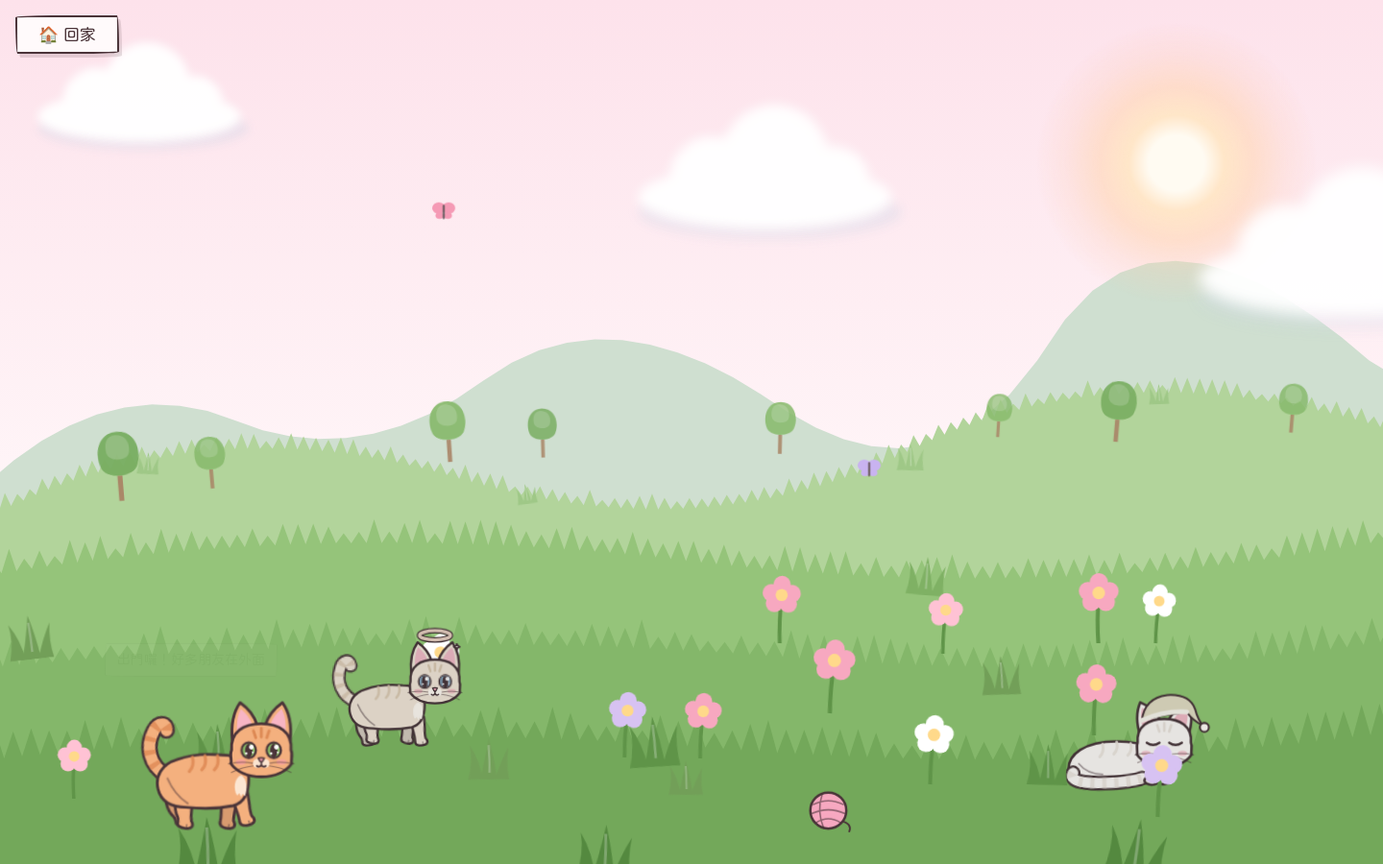
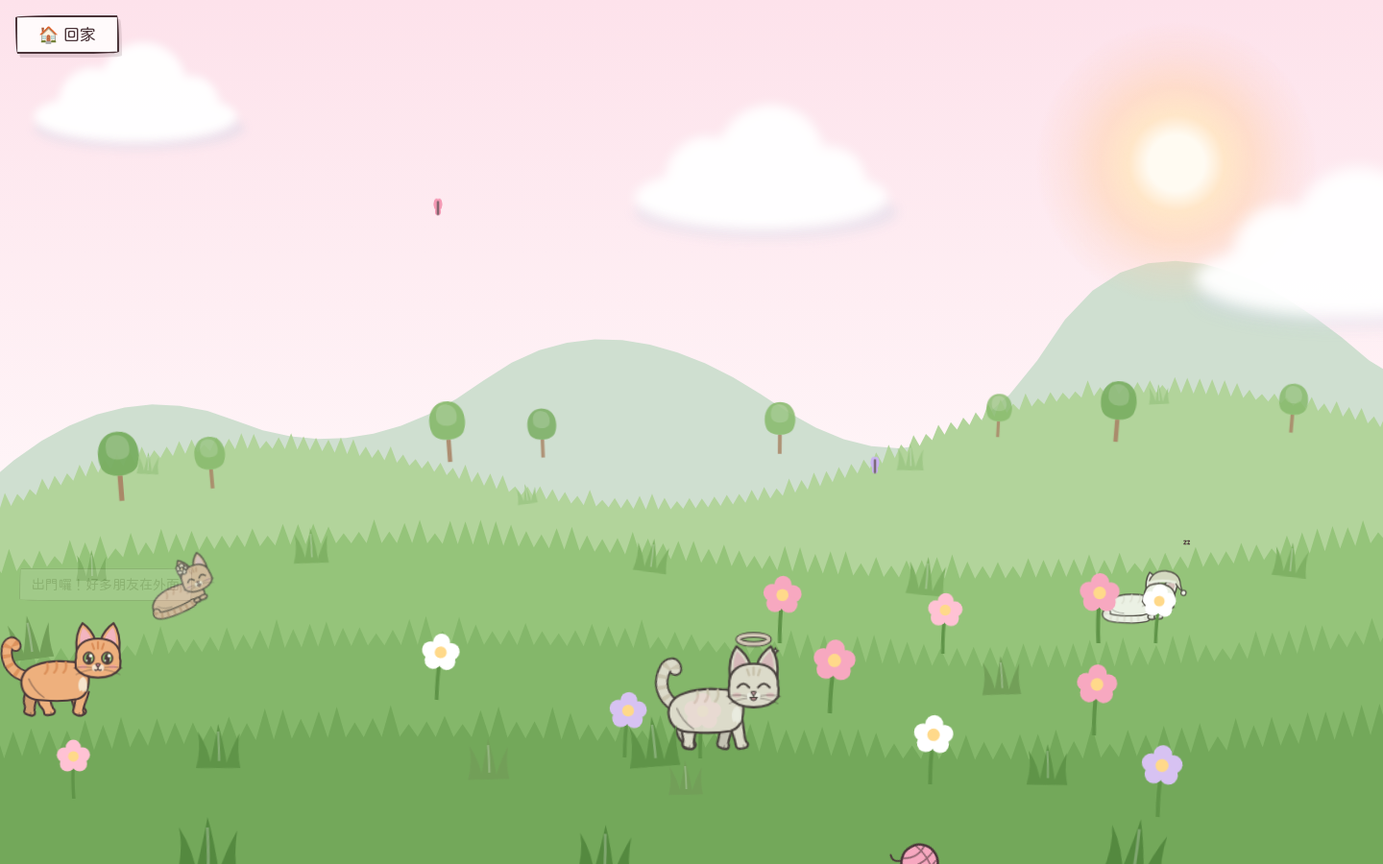
style: add color for cat

diff --git a/index.html b/index.html
@@ -1099,6 +1099,32 @@ const MOODS = {
              acts: { walk: 4, sit: 1, groom: 1 }, speed: 80 },
 };
 const CALICO_DARK = "#5A5560", CALICO_ORANGE = "#E9A06A";
+// ---------- 花色：14 種，按情緒家族決定 ----------
+// fur 底色、stripe 虎斑紋（跟 fur 一樣就是沒有斑紋）、chest 胸口和嘴邊、eye 眼睛
+// patches：兩塊斑（三花、玳瑁、橘白）、earR：右耳的顏色、point：暹羅的重點色（耳朵、臉、腳、尾巴）
+// muzzle：白色嘴套、paw：腳的顏色、whisker／eyeLine：深色毛的貓用淺色鬍鬚和眼線
+const COATS = {
+  happy:      { name: "橘子", fur: "#F4B07E", stripe: "#DE8A55", chest: "#FCE6D2", eye: "#8CC46B" },
+  goldie:     { name: "金金", fur: "#F3D9A4", stripe: "#E8C482", chest: "#FFF7E6", eye: "#6FBF8E" },
+  siamese:    { name: "可可", fur: "#F4EADC", stripe: "#F4EADC", chest: "#FFF9F0", eye: "#7FB8E8", point: "#86685A" },
+  anxious:    { name: "花花", fur: "#FAF2E8", stripe: "#FAF2E8", chest: "#FFFFFF", eye: "#D2B55B", patches: [CALICO_ORANGE, CALICO_DARK], earR: CALICO_DARK },
+  calm:       { name: "奶茶", fur: "#EFE2D0", stripe: "#D9C4A6", chest: "#FBF5EC", eye: "#86BEE0" },
+  orangewhite:{ name: "布丁", fur: "#FCF8F3", stripe: "#FCF8F3", chest: "#FFFFFF", eye: "#C7B55A", patches: ["#F2A66E", "#F2A66E"], earR: "#F2A66E" },
+  sad:        { name: "灰灰", fur: "#AEBBCF", stripe: "#95A4BC", chest: "#CDD6E3", eye: "#A6CF86" },
+  tired:      { name: "雪球", fur: "#F8F5F1", stripe: "#E7E0D6", chest: "#FFFFFF", eye: "#8FC3EA" },
+  graywhite:  { name: "麻糬", fur: "#A4A8B2", stripe: "#A4A8B2", chest: "#FFFFFF", paw: "#FFFFFF", eye: "#E0C25C", muzzle: true },
+  silver:     { name: "銀銀", fur: "#DADDE3", stripe: "#9298A3", chest: "#F4F5F8", eye: "#9CCB7A" },
+  angry:      { name: "芝麻", fur: "#57535F", stripe: "#57535F", chest: "#FFFFFF", paw: "#FFFFFF", eye: "#D8E26A", muzzle: true, whisker: "#fff", eyeLine: "#F3EEF5" },
+  tortie:     { name: "黑糖", fur: "#5F4B45", stripe: "#5F4B45", chest: "#7A5F55", eye: "#E2B54D", patches: ["#C9824F", "#9A6A48"], earR: "#C9824F", whisker: "#fff", eyeLine: "#F3EEF5" },
+  brown:      { name: "栗子", fur: "#BE936F", stripe: "#86614A", chest: "#EEDCC8", eye: "#B5C76A" },
+  black:      { name: "煤球", fur: "#45424D", stripe: "#45424D", chest: "#55525D", eye: "#F0D25C", whisker: "#fff", eyeLine: "#F3EEF5" },
+};
+const coatOf = k => COATS[k] || MOODS[k] || COATS.calm;
+// 一筆記錄的花色：照第一個情緒的家族；舊記錄沒有情緒詞的話，用原本的花色
+const recCoat = r => FAMILY_COAT[typeof EMO !== "undefined" && EMO[emoOf(r)[0]]?.family] || (COATS[r.mood] ? r.mood : "calm");
+const emoCoat = id => FAMILY_COAT[EMO[id]?.family] || "calm";
+const FAMILY_COAT = { joy: "happy", confidence: "goldie", engagement: "siamese", connection: "anxious", calm: "calm", contentment: "orangewhite",
+  sadness: "sad", exhaustion: "tired", self_conscious: "graywhite", numbness: "silver", anger: "angry", fear: "tortie", stress: "brown", unsure: "black" };
 
 // 頭的位置（各個姿勢）：x, y 位移與旋轉角度（以頭中心 100,42 為軸）
 const HEAD_POSE = {
@@ -1112,7 +1138,7 @@ const HEAD_POSE = {
 const EARS = { happy: [0, 0], calm: [0, 0], tired: [12, 1], sad: [36, 5], angry: [52, 7], anxious: [16, 1] };
 
 function eye(cx, cy, mood, side, coat = mood) {
-  const m = MOODS[coat];
+  const m = coatOf(coat);
   const iris = (pw, ph = 4.4) => `<ellipse cx="${cx}" cy="${cy}" rx="4.6" ry="5" fill="${m.eye}" stroke-width="1.4"/>
     <ellipse cx="${cx}" cy="${cy + .3}" rx="${pw}" ry="${ph}" fill="${INK}" stroke="none"/>
     <circle cx="${cx + 1.7}" cy="${cy - 2}" r="1.5" fill="#fff" stroke="none"/><circle cx="${cx - 1.6}" cy="${cy + 2}" r=".75" fill="#fff" stroke="none"/>`;
@@ -1137,9 +1163,9 @@ function eye(cx, cy, mood, side, coat = mood) {
 
 // mood 決定表情、耳朵；coat 決定花色（預設同一隻）
 function headArt(mood, coat = mood, acc = null) {
-  const m = MOODS[coat], A = accSVG(acc);
+  const m = coatOf(coat), A = accSVG(acc);
   const [er, ey] = EARS[mood];
-  const earR = m.calico ? CALICO_DARK : m.fur;
+  const earL = m.point || m.fur, earR = m.point || m.earR || m.fur;
   const mouth = {
     happy: `<path d="M97.2 51.4 Q100 56.2 102.8 51.4 Z" fill="#EE8A9E" stroke-width="1.1"/>`,
     sad: `<path d="M97.6 53.6 Q100 51.6 102.4 53.6" fill="none" stroke-width="1.1"/>`,
@@ -1153,7 +1179,7 @@ function headArt(mood, coat = mood, acc = null) {
       fill="none" stroke="${wc}" stroke-width=".7" opacity=".55"/>`;
   return `${A.back}
     <g transform="rotate(${-er} 88 30) translate(0 ${ey})">
-      <path d="M81.5 36 C80.5 26 82.5 17 86.5 11.5 C91.5 15 95.5 20 97.5 26" fill="${m.fur}"/>
+      <path d="M81.5 36 C80.5 26 82.5 17 86.5 11.5 C91.5 15 95.5 20 97.5 26" fill="${earL}"/>
       <path d="M84.5 30 C84 24 85 19 87 15.5 C90 18 92.5 21 94 25Z" fill="#F8B5C4" stroke="none"/>
     </g>
     <g transform="rotate(${er} 112 30) translate(0 ${ey})">
@@ -1161,10 +1187,11 @@ function headArt(mood, coat = mood, acc = null) {
       <path d="M115.5 30 C116 24 115 19 113 15.5 C110 18 107.5 21 106 25Z" fill="#F8B5C4" stroke="none"/>
     </g>
     <path d="M81 42 C80 30 89 25 100 25 C111 25 120 30 119 42 C120.5 45 118.5 48.5 119.5 50.5 C116 55.5 109 59 100 59 C91 59 84 55.5 80.5 50.5 C81.5 48.5 79.5 45 81 42Z" fill="${m.fur}"/>
-    ${m.calico ? `<path d="M83 38 C82 31 88 27 95 27.5 C96 32 91 37 83 38Z" fill="${CALICO_ORANGE}" stroke="none"/>
-                  <path d="M118 39 C119 31 112 26.5 105 27 C105 32 110 37 118 39Z" fill="${CALICO_DARK}" stroke="none"/>` : ""}
+    ${m.patches ? `<path d="M83 38 C82 31 88 27 95 27.5 C96 32 91 37 83 38Z" fill="${m.patches[0]}" stroke="none"/>
+                  <path d="M118 39 C119 31 112 26.5 105 27 C105 32 110 37 118 39Z" fill="${m.patches[1]}" stroke="none"/>` : ""}
+    ${m.point ? `<ellipse cx="100" cy="47.5" rx="11.5" ry="10" fill="${m.point}" opacity=".55" stroke="none"/>` : ""}
     <path d="M95 29.5 L96.5 34 M100 28 L100 33.5 M105 29.5 L103.5 34" stroke="${m.stripe}" stroke-width="1.8" fill="none"/>
-    ${coat === "angry" ? `<path d="M100 36 C95 42 92 48 93 53 C96 57.5 104 57.5 107 53 C108 48 105 42 100 36Z" fill="#fff" stroke="none"/>` : ""}
+    ${m.muzzle ? `<path d="M100 36 C95 42 92 48 93 53 C96 57.5 104 57.5 107 53 C108 48 105 42 100 36Z" fill="#fff" stroke="none"/>` : ""}
     ${mood !== "angry" ? `<ellipse cx="87" cy="49.5" rx="3.3" ry="1.8" fill="#FF9DB5" opacity=".55" stroke="none"/><ellipse cx="113" cy="49.5" rx="3.3" ry="1.8" fill="#FF9DB5" opacity=".55" stroke="none"/>` : ""}
     <g class="eyes">${eye(92, 42, mood, -1, coat)}${eye(108, 42, mood, 1, coat)}</g>
     <g class="closed"><path d="M87.5 42.5 Q92 45.8 96.5 42.5 M103.5 42.5 Q108 45.8 112.5 42.5" fill="none" stroke="${m.eyeLine || INK}" stroke-width="1.6"/></g>
@@ -1205,16 +1232,16 @@ function sitPaw(x, top, color, g = 92) {
 function tail(d, m, puff) {
   const w = puff ? [13.5, 10] : [10.5, 7.4];
   const rings = m.stripe !== m.fur ? `<path d="${d}" fill="none" stroke="${m.stripe}" stroke-width="${w[1]}" stroke-linecap="butt" stroke-dasharray="3 5.5" opacity=".8"/>` : "";
-  const tip = m.calico ? `<path d="${d}" fill="none" stroke="${CALICO_DARK}" stroke-width="${w[1]}" stroke-dasharray="0 1000 9 1000" pathLength="1000" opacity="0"/>` : "";
-  return `<path d="${d}" fill="none" stroke="${INK}" stroke-width="${w[0]}"/><path d="${d}" fill="none" stroke="${m.fur}" stroke-width="${w[1]}"/>${rings}${tip}`;
+  return `<path d="${d}" fill="none" stroke="${INK}" stroke-width="${w[0]}"/><path d="${d}" fill="none" stroke="${m.point || m.fur}" stroke-width="${w[1]}"/>${rings}`;
 }
 // 胸前的一撮蓬毛
 const fluff = (x, y, color) => `<path d="M${x} ${y} C${x - 4.5} ${y + 2} ${x - 5} ${y + 9} ${x - 2.5} ${y + 13} L${x - 1} ${y + 11.5} L${x} ${y + 14} L${x + 1.2} ${y + 11.8} L${x + 2.5} ${y + 13.5} C${x + 4.5} ${y + 9} ${x + 4} ${y + 2} ${x} ${y}Z" fill="${color}" stroke="none"/>`;
 
 function poseArt(mood, pose, coat = mood) {
-  const m = MOODS[coat], tailType = MOODS[mood].tail;
-  const far = m.paw ? shade(m.paw) : shade(m.fur);
-  const near = m.paw || m.fur;
+  const m = coatOf(coat), tailType = MOODS[mood].tail;
+  const legC = m.point || m.paw || m.fur;
+  const far = shade(legC);
+  const near = legC;
   const puff = tailType === "puff";
   const stripes = d => m.stripe !== m.fur ? `<path d="${d}" stroke="${m.stripe}" stroke-width="2" fill="none" opacity=".85"/>` : "";
   if (pose === "stand") {
@@ -1224,14 +1251,14 @@ function poseArt(mood, pose, coat = mood) {
       ${paw(45, 67, far, "leg b", "back")}${paw(80, 68, far, "leg a")}
       ${paw(53, 68, near, "leg a", "back")}${paw(86.5, 70, near, "leg b")}
       <path d="M92 60 C92 50 85 45 75 45 C64 44 54 45 46 48 C36 51 32 59 34 67 C36 75 43 78.5 52 78.5 C62 79.5 72 79.5 82 77.5 C90 75.5 92 68 92 60Z" fill="${m.fur}"/>
-      ${m.calico ? `<path d="M50 48 C57 45.5 64 47.5 63 55 C57 60 50 58 50 48Z" fill="${CALICO_DARK}" stroke="none"/><path d="M68 64 C75 61 81 66 78.5 72 C73 74 69 70 68 64Z" fill="${CALICO_ORANGE}" stroke="none"/>` : ""}
+      ${m.patches ? `<path d="M50 48 C57 45.5 64 47.5 63 55 C57 60 50 58 50 48Z" fill="${m.patches[1]}" stroke="none"/><path d="M68 64 C75 61 81 66 78.5 72 C73 74 69 70 68 64Z" fill="${m.patches[0]}" stroke="none"/>` : ""}
       ${stripes("M56 46.5 C57 50.5 56 53.5 54 55.5 M64 45.5 C65 49.5 64 52.5 62 54.5 M72 45.5 C73 49.5 72 52.5 70 54.5")}
       <path d="M40 60 C43 67 47 72 53 76" fill="none" stroke-width="1.2" opacity=".45"/>
       ${fluff(87, 58, m.chest)}`;
   }
   if (pose === "sit") {
     return `<path d="M87 92 C94 86 96.5 72 92.5 60 C89.5 52 82 48 75 50 C66 53 60 60 57 67 C47 69 41 77 42 85 C43 91 50 93 58 92 Z" fill="${m.fur}"/>
-      ${m.calico ? `<path d="M59 66 C65 60 73 62 73 69 C68 74 61 73 59 66Z" fill="${CALICO_DARK}" stroke="none"/><path d="M47 79 C50 74 57 75 57 81 C53 85 48 84 47 79Z" fill="${CALICO_ORANGE}" stroke="none"/>` : ""}
+      ${m.patches ? `<path d="M59 66 C65 60 73 62 73 69 C68 74 61 73 59 66Z" fill="${m.patches[1]}" stroke="none"/><path d="M47 79 C50 74 57 75 57 81 C53 85 48 84 47 79Z" fill="${m.patches[0]}" stroke="none"/>` : ""}
       ${stripes("M69 55 C70 59 68 62 66 64 M77 52 C78 56 76 59 74 61")}
       <path d="M60 71 C51 73 48 83 54 90" fill="none" stroke-width="1.2" opacity=".45"/>
       ${sitPaw(81.5, 66, near)}
@@ -1241,7 +1268,7 @@ function poseArt(mood, pose, coat = mood) {
   }
   // 趴著（母雞蹲、睡覺）
   return `<path d="M28 85 C26 72 40 63 62 63 C82 63 98 70 99 83 C99.5 89 95 92.5 88 92.5 L38 92.5 C31 92.5 28 90 28 85Z" fill="${m.fur}"/>
-    ${m.calico ? `<path d="M44 67 C52 63 60 66 57 74 C51 77 45 74 44 67Z" fill="${CALICO_DARK}" stroke="none"/><path d="M70 68 C78 66 85 71 81 78 C75 79 71 75 70 68Z" fill="${CALICO_ORANGE}" stroke="none"/>` : ""}
+    ${m.patches ? `<path d="M44 67 C52 63 60 66 57 74 C51 77 45 74 44 67Z" fill="${m.patches[1]}" stroke="none"/><path d="M70 68 C78 66 85 71 81 78 C75 79 71 75 70 68Z" fill="${m.patches[0]}" stroke="none"/>` : ""}
     ${stripes("M52 65 C53 69 52 72 50 74 M62 63.5 C63 67 62 70 60 72 M72 64.5 C73 68 72 71 70 73")}
     <path d="M35 79 C39 84 45 86.5 52 86.5" fill="none" stroke-width="1.2" opacity=".45"/>
     <g class="tail" style="transform-origin:31px 86px">${tail("M31 85.5 C26 93 46 94.6 64 94.4 C72 94.2 77 93.8 80 92.5", m, puff)}</g>
@@ -1275,7 +1302,7 @@ function bodySVG(mood, pose, coat = mood, acc = null) {
   return `${svgOpen("0 0 130 100")}<g ${ATTRS}>
     <g class="hopper-inner">${poses.map(p => `<g class="pose p-${p}">${poseArt(mood, p, coat)}</g>`).join("")}
     <g class="head" ${headAttr}>${headArt(mood, coat, acc)}</g>
-    ${poses.includes("sit") ? lickPaw(MOODS[coat].paw || MOODS[coat].fur) : ""}</g></g></svg>`;
+    ${poses.includes("sit") ? lickPaw(coatOf(coat).point || coatOf(coat).paw || coatOf(coat).fur) : ""}</g></g></svg>`;
 }
 // 小圖示：只有頭
 function headSVG(mood, coat = mood, acc = null) {
@@ -1397,8 +1424,10 @@ const ACC = {
       return `<circle cx="${x.toFixed(1)}" cy="${y.toFixed(1)}" r="3.2" fill="${i % 2 ? hsl(h + 40, 75, 80) : hsl(h, 75, 74)}"/>`; }).join("")}
     <circle cx="${(100 + 18 * Math.sin(-.34)).toFixed(1)}" cy="${(25 - 12 * Math.cos(-.34)).toFixed(1)}" r="1.6" fill="#ffe08a" stroke="none"/></g>`,
   // 滿足
-  content: h => `<g ${AK()}><path d="M117 44 H131 L129 54 Q124 57 119 54Z" fill="${hsl(h, 70, 80)}"/><path d="M131 46 Q135 47 130 52" fill="none"/>
-    <path d="M121 40 Q119 37 121 34 M126 40 Q124 37 126 34" fill="none" stroke-width="1" opacity=".7"/></g>`,
+  // 滿足：頭上飄著一顆微笑的小太陽，心裡暖暖的
+  content: h => `<g ${AK(1.2)}><g stroke="${hsl(h, 80, 62)}" stroke-width="1.8">${[0, 45, 90, 135, 180, 225, 270, 315].map(a => { const r = a * Math.PI / 180;
+      return `<path d="M${(100 + 9 * Math.cos(r)).toFixed(1)} ${(10 + 9 * Math.sin(r)).toFixed(1)} L${(100 + 12.4 * Math.cos(r)).toFixed(1)} ${(10 + 12.4 * Math.sin(r)).toFixed(1)}"/>`; }).join("")}</g>
+    <circle cx="100" cy="10" r="6.6" fill="${hsl(h, 85, 78)}"/><path d="M97 9.4 Q98 8.2 99 9.4 M101 9.4 Q102 8.2 103 9.4 M98.4 11.8 Q100 13.4 101.6 11.8" fill="none" stroke-width="1"/></g>`,
   secure: h => `<g ${AK()}><path d="M82 54 Q100 66 118 54 L120 60 Q100 72 80 60Z" fill="${hsl(h, 65, 70)}"/>
     <path d="M86 58.4 L86 64 M94 61 L93.6 66.6 M106 61 L106.4 66.6 M114 58.4 L114 64" fill="none" stroke="${hsl(h, 70, 88)}" stroke-width="1.6"/>
     <path d="M112 60 L116 74 L110 74 L108 62Z" fill="${hsl(h, 65, 70)}"/></g>`,
@@ -1434,13 +1463,21 @@ const ACC_NAME = {
   tired: "睡帽", unmotivated: "沒電的電池", helpless: "小白旗", burned_out: "燒完的蠟燭",
   embarrassed: "臉紅", guilty: "對不起牌子", ashamed: "帽兜", inadequate: "小小的…",
   bored: "打哈欠泡泡", empty: "空心愛心", numb: "冰塊",
-  relaxed: "毛巾", peaceful: "光圈", at_ease: "花圈", content: "熱茶", secure: "圍巾", comfortable: "眼罩",
+  relaxed: "毛巾", peaceful: "光圈", at_ease: "花圈", content: "小太陽", secure: "圍巾", comfortable: "眼罩",
   grateful: "禮物", touched: "閃閃", loved: "愛心", unsure: "問號泡泡",
 };
 const accName = id => ACC_NAME[id] || ACC_NAME[FAMILY_ACC[id]] || ACC_NAME[FAMILY_ACC[EMO[id]?.family]] || "";
 // 沒有存顏色的舊記錄：用內容算出一個固定的顏色
 const hashHue = str => { let h = 7; for (const ch of str) h = (h * 31 + ch.codePointAt(0)) % 3600; return h % 360; };
 const randHue = () => Math.floor(Math.random() * 360);
+// ---------- 隨機小飾品：跟心情無關，每隻貓一個，顏色也隨機 ----------
+// slot 是戴的位置；心情配件剛好也在那個位置時，會自動換成別的位置的飾品
+const star = (cx, cy, R, r) => "M" + Array.from({ length: 10 }, (_, i) => {
+  const a = -Math.PI / 2 + i * Math.PI / 5, k = i % 2 ? r : R;
+  return `${(cx + k * Math.cos(a)).toFixed(1)} ${(cy + k * Math.sin(a)).toFixed(1)}`; }).join(" L") + "Z";
+
+
+
 
 // ---------- 資料 ----------
 // entries["2026-09-28"] = [{ mood, text, t: "14:05" }, ...]，一天可以記很多次
@@ -1719,7 +1756,7 @@ function persona(entry) {
 function makeCat(key, entry, enter) {
   const el = document.createElement("div");
   el.className = "cat sit";
-  el.innerHTML = `<div class="flip"><div class="hopper">${bodySVG(entry.mood, undefined, entry.mood, accOf(entry, key.slice(0, 10)))}</div></div><div class="zzz">z<small>z</small></div>`;
+  el.innerHTML = `<div class="flip"><div class="hopper">${bodySVG(entry.mood, undefined, recCoat(entry), accOf(entry, key.slice(0, 10)))}</div></div><div class="zzz">z<small>z</small></div>`;
   const P = persona(entry);
   el.style.setProperty("--step", (0.36 * 45 / P.speed).toFixed(2) + "s");
   el.setAttribute("role", "button");
@@ -1732,11 +1769,11 @@ function makeCat(key, entry, enter) {
     const date = key.slice(0, 10), [, mo, d] = date.split("-");
     const who = (date === TODAY ? "今天" : `${+mo}/${+d}`) + (entry.t ? " " + entry.t : "");
     say(c, `${who}・${emoNames(entry)}：${entry.text || sayFor(emoOf(entry))}`, 4, entry.mood);   // 說起那天的心情時，露出那天的表情
-    meow(1.08 * COAT_PITCH[entry.mood], .8, .7);
+    meow(1.08 * (COAT_PITCH[entry.mood] ?? 1), .8, .7);
     if (c.partner) endPair(c);
     setMode(c, "hop");
   };
-  c.coat = c.base = c.face = entry.mood; c.acc = accOf(entry, key.slice(0, 10));
+  c.base = c.face = entry.mood; c.coat = recCoat(entry); c.acc = accOf(entry, key.slice(0, 10));
   if (enter) { c.mode = "walk"; c.tx = W * .35; c.ty = 20; c.timer = 12; c.wrap = "in"; el.className = "cat walk"; }
   cats.push(c);
   return c;
@@ -1970,8 +2007,9 @@ function moveBall(dt, W) {
   ball.x += ball.vx * dt; ball.y += ball.vy * dt;
   const f = Math.exp(-1.5 * dt);
   ball.vx *= f; ball.vy *= f;
-  if (ball.x < 14) { ball.x = 14; ball.vx = Math.abs(ball.vx) * .6; }
-  if (ball.x > W - 14) { ball.x = W - 14; ball.vx = -Math.abs(ball.vx) * .6; }
+  const edge = CAT_W * .6;   // 不要滾到貓咪碰不到的最邊邊
+  if (ball.x < edge) { ball.x = edge; ball.vx = Math.abs(ball.vx) * .6; }
+  if (ball.x > W - edge) { ball.x = W - edge; ball.vx = -Math.abs(ball.vx) * .6; }
   if (ball.y < Y_MIN) { ball.y = Y_MIN; ball.vy = Math.abs(ball.vy); }
   if (ball.y > Y_MAX) { ball.y = Y_MAX; ball.vy = -Math.abs(ball.vy); }
   ball.rot += ball.vx * dt * 4;
@@ -2103,6 +2141,12 @@ function syncStep(el, speed, bodyW) {
 }
 function stepTo(c, tx, ty, speed, dt) {
   c.v = speed;
+  // 目的地限制在畫面內（走出畫面的散步除外），走到邊邊就算到了，不會在邊界原地踏步
+  if (!c.wrap) {
+    const W = meadow.clientWidth, bodyW = CAT_W * scaleOf(c.y);
+    tx = Math.min(Math.max(tx, -(CAT_W - bodyW) / 2), W - CAT_W + (CAT_W - bodyW) / 2);
+    ty = Math.min(Math.max(ty, Y_MIN), Y_MAX);
+  }
   const dx = tx - c.x, dy = ty - c.y, dist = Math.hypot(dx, dy), step = speed * dt;
   if (Math.abs(dx) > 2) c.dir = dx > 0 ? 1 : -1;
   if (dist <= step) { c.x = tx; c.y = ty; return true; }
@@ -2411,7 +2455,7 @@ function showAccPreview() {
   box.hidden = !pickedEmo.length;
   if (!pickedEmo.length) return;
   const acc = { id: pickedEmo[0], hue: pendingHue };
-  box.innerHTML = `${headSVG(picked, undefined, acc)}<span>這次的配件：<b></b></span><button class="special" id="rerollHue">🎲 換個顏色</button>`;
+  box.innerHTML = `${headSVG(picked, emoCoat(pickedEmo[0]), acc)}<span>這次的配件：<b></b></span><button class="special" id="rerollHue">🎲 換個顏色</button>`;
   box.querySelector("b").textContent = accName(acc.id);
   $("rerollHue").onclick = () => { pendingHue = randHue(); showAccPreview(); drawBuddy(); meow(1.15, .5, .6); };
 }
@@ -2683,7 +2727,7 @@ addEventListener("resize", () => { clearTimeout(resizeTimer); resizeTimer = setT
 // ---------- 寵物 ----------
 // 電腦上：住在背景房間裡（平常窩在書桌下的貓床），會自己玩、睡床、坐沙發
 // 螢幕太窄時（房間被內容擋住）：縮小待在右下角
-const COAT_NAMES = { happy: "橘子", calm: "奶茶", sad: "灰灰", angry: "芝麻", tired: "雪球", anxious: "花花" };
+const COAT_NAMES = Object.fromEntries(Object.entries(COATS).map(([k, v]) => [k, v.name]));
 let buddy = { coat: "happy", name: "" };
 try { buddy = { ...buddy, ...JSON.parse(localStorage.getItem("meow-buddy")) }; } catch (e) {}
 // 從哪天開始養的：沒記錄過就用最早的一筆真實記錄，再沒有就是今天
@@ -2713,11 +2757,8 @@ const activeCat = () => outside && petCat ? petCat.el : inRoom ? roomBuddy : doc
 const curPose = () => outside && petCat ? petCat.mode : inRoom ? rbPose : dockPose;
 
 // 寵物戴的配件：正在選的情緒，沒有就用今天最後一筆
-function buddyAcc() {
-  if (pickedEmo.length) return { id: pickedEmo[0], hue: pendingHue };
-  const last = (entries[TODAY] || []).at(-1);
-  return last ? accOf(last, TODAY) : null;
-}
+// 寵物不戴配件（表情還是會跟著你的心情變）
+const buddyAcc = () => null;
 let petFaceTemp = null, petFaceT = 0;
 // 只換臉，不動位置（寵物正在走路也不會瞬移）
 function refreshPetFace() {
@@ -3016,7 +3057,7 @@ function buddyReact(k, ids = []) {
   }
 }
 const PET = ["呼嚕呼嚕～", "喵～ 再摸一下嘛", "（用頭蹭蹭你的手）", "最喜歡你了 💕", "（瞇起眼睛）呼嚕…"];
-const COAT_PITCH = { happy: 1, calm: 1.05, sad: .92, angry: .85, tired: 1.1, anxious: 1.15 };   // 每隻貓的聲音高低不太一樣
+const COAT_PITCH = { happy: 1, calm: 1.05, sad: .92, angry: .85, tired: 1.1, anxious: 1.15, goldie: 1, siamese: 1.12, orangewhite: 1.05, graywhite: .95, silver: .98, tortie: .9, brown: .94, black: .88 };   // 每隻貓的聲音高低不太一樣
 function petBuddy() {
   const line = curPose() === "sleep" ? "（被你摸醒了）喵…？" : pick(PET);
   if (!outside) {
@@ -3024,7 +3065,7 @@ function petBuddy() {
     clearTimeout(petFaceT); petFaceT = setTimeout(() => { petFaceTemp = null; refreshPetFace(); }, 3500);
   }
   buddySay(line);
-  if (line.includes("呼嚕")) purr(); else meow(COAT_PITCH[buddy.coat], line.includes("醒") ? .7 : 1);
+  if (line.includes("呼嚕")) purr(); else meow((COAT_PITCH[buddy.coat] ?? 1), line.includes("醒") ? .7 : 1);
   buddyHeart(); setTimeout(buddyHeart, 300);
   if (inRoom) roomInterrupt(async () => { await rbStay("hop", .75); await rbStay("sit", 3); });
   else dockLook("hop", .75);
@@ -3087,8 +3128,8 @@ function renderCal() {
     const cell = document.createElement("div");
     cell.className = "day" + (key === TODAY ? " today" : "");
     let heads = "";
-    if (list.length === 1) heads = headSVG(list[0].mood, undefined, accOf(list[0], key));
-    else if (list.length > 1) heads = `<div class="heads">${list.slice(-4).map(r => headSVG(r.mood, undefined, accOf(r, key))).join("")}</div>`
+    if (list.length === 1) heads = headSVG(list[0].mood, recCoat(list[0]), accOf(list[0], key));
+    else if (list.length > 1) heads = `<div class="heads">${list.slice(-4).map(r => headSVG(r.mood, recCoat(r), accOf(r, key))).join("")}</div>`
       + (list.length > 4 ? `<span class="more">+${list.length - 4}</span>` : "");
     cell.innerHTML = `<span class="n">${d}</span>` + heads;
     cell.tabIndex = 0;
@@ -3110,7 +3151,7 @@ function renderCal() {
       ${parts.map(([id, name, color]) => `<span style="width:${byQuad[id] / total * 100}%;background:${color}" title="${name} ${byQuad[id]} 次"></span>`).join("")}</div>
     <div class="mood-legend">${parts.map(([id, name, color]) => `<span><i style="background:${color}"></i>${name} ${Math.round(byQuad[id] / total * 100)}%</span>`).join("")}</div></div>`
     + Object.entries(count).sort((a, b) => b[1] - a[1]).slice(0, 6)
-      .map(([id, n]) => `<span class="chip">${headSVG(EMO[id].face, undefined, { id, hue: hashHue(id) })} ${EMO[id].name} ${n} 次</span>`).join("");
+      .map(([id, n]) => `<span class="chip">${headSVG(EMO[id].face, emoCoat(id), { id, hue: hashHue(id) })} ${EMO[id].name} ${n} 次</span>`).join("");
 }
 
 $("prev").onclick = () => { view.setMonth(view.getMonth() - 1); renderCal(); };
@@ -3144,7 +3185,7 @@ function updateTodayCount() {
 function recRow(date, r, i) {
   const row = document.createElement("div");
   row.className = "rec";
-  row.innerHTML = `${headSVG(r.mood, undefined, accOf(r, date))}<time>${r.t || ""}</time><b></b><span class="txt"></span>
+  row.innerHTML = `${headSVG(r.mood, recCoat(r), accOf(r, date))}<time>${r.t || ""}</time><b></b><span class="txt"></span>
     <button class="btn edit">修改</button><button class="btn del">刪除</button>`;
   row.querySelector("b").textContent = emoNames(r);
   row.querySelector(".txt").textContent = r.text;
@@ -3661,7 +3702,7 @@ function addPetCat(enter) {
     setMode(c, "hop");
     const line = pick(PET);
     say(c, line, 4, "happy"); $("bubbleSr").textContent = `${buddyName()}：${line}`;
-    line.includes("呼嚕") ? purr() : meow(COAT_PITCH[buddy.coat]);
+    line.includes("呼嚕") ? purr() : meow((COAT_PITCH[buddy.coat] ?? 1));
     buddyHeart(); setTimeout(buddyHeart, 300);
   };
   petCat = c;

diff --git a/README.md b/README.md
@@ -48,13 +48,9 @@
 ![四種心情天氣：晴朗、彩虹、起風、下雨](docs/weather.png)
 
 ### 每種情緒都有自己的配件
-47 個情緒各有一個小配件，例如興奮戴派對帽、有壓力頭上頂鬧鐘、累了戴睡帽、被愛會飄愛心。每次記錄時配件會隨機配一個柔和的顏色，選之前可以先預覽、也可以重抽。
-
-![所有情緒的配件](docs/accessories.png)
-
-### 窗外的草原、房間裡的寵物
-- **草原上的小貓**：最近 7 次記錄的貓咪（出門走走時最多 12 隻）會在草原上散步、追逐、打鬧、依偎、幫彼此理毛，偶爾還會自言自語。牠們會走近走遠，越遠越小、越淡，偶爾還會走出畫面，過一下再從另一邊走回來；表情也會跟著正在做的事和說的話變化，例如玩耍時笑咪咪、依偎時一臉滿足。每隻貓的動作會依照那個情緒的「能量」和「愉悅度」不同：能量高的走得快、愛蹦跳，能量低的常常趴著睡覺；心情舒服的愛找別的貓玩，不舒服的喜歡自己待著。有些情緒還有專屬動作，例如興奮會原地轉圈、坐立不安會來回踱步、害怕會躲到草叢後面發抖、孤單會一個人坐在草原邊邊、被愛和感激會一直去蹭別的貓。點牠們會喵一聲、說出那天的心情；點草地可以放小魚乾，也可以踢毛線球
-- **你的寵物**：住在房間裡，平常窩在書桌下的貓床，會自己跑去玩、跳上床睡覺、坐沙發。牠會戴著你現在心情的配件，記得你今天說過的話，主動找你聊天。可以幫牠取名字、選花色，也會記得你們一起生活了幾天
+47 個情緒各有一個小配件，例如興奮戴派對帽、有壓力頭上頂鬧鐘、累了戴睡帽、被愛會飄愛心。每次記錄時配件會隨機配一個柔和的顏色，選之前可以先預覽、也可以重抽。牠們會走近走遠，越遠越小、越淡，偶爾還會走出畫面，過一下再從另一邊走回來；表情也會跟著正在做的事和說的話變化，例如玩耍時笑咪咪、依偎時一臉滿足。每隻貓的動作會依照那個情緒的「能量」和「愉悅度」不同：能量高的走得快、愛蹦跳，能量低的常常趴著睡覺；心情舒服的愛找別的貓玩，不舒服的喜歡自己待著。有些情緒還有專屬動作，例如興奮會原地轉圈、坐立不安會來回踱步、害怕會躲到草叢後面發抖、孤單會一個人坐在草原邊邊、被愛和感激會一直去蹭別的貓。點牠們會喵一聲、說出那天的心情；點草地可以放小魚乾，也可以踢毛線球
+- **貓咪的花色**：一共 14 種，照情緒的家族決定，例如喜悅是橘虎斑、悲傷是藍灰貓、生氣是賓士貓、平靜是奶茶色、投入是暹羅貓、害怕是玳瑁貓、說不上來是黑貓
+- **你的寵物**：住在房間裡，平常窩在書桌下的貓床，會自己跑去玩、跳上床睡覺、坐沙發。牠的表情會跟著你現在的心情變，也會記得你今天說過的話，主動找你聊天。可以幫牠取名字、從 14 種花色裡挑一種，也會記得你們一起生活了幾天
 - **房間**：書桌、床、沙發、魚缸、貓耳時鐘、小燈泡……
 
 ### 窗簾
